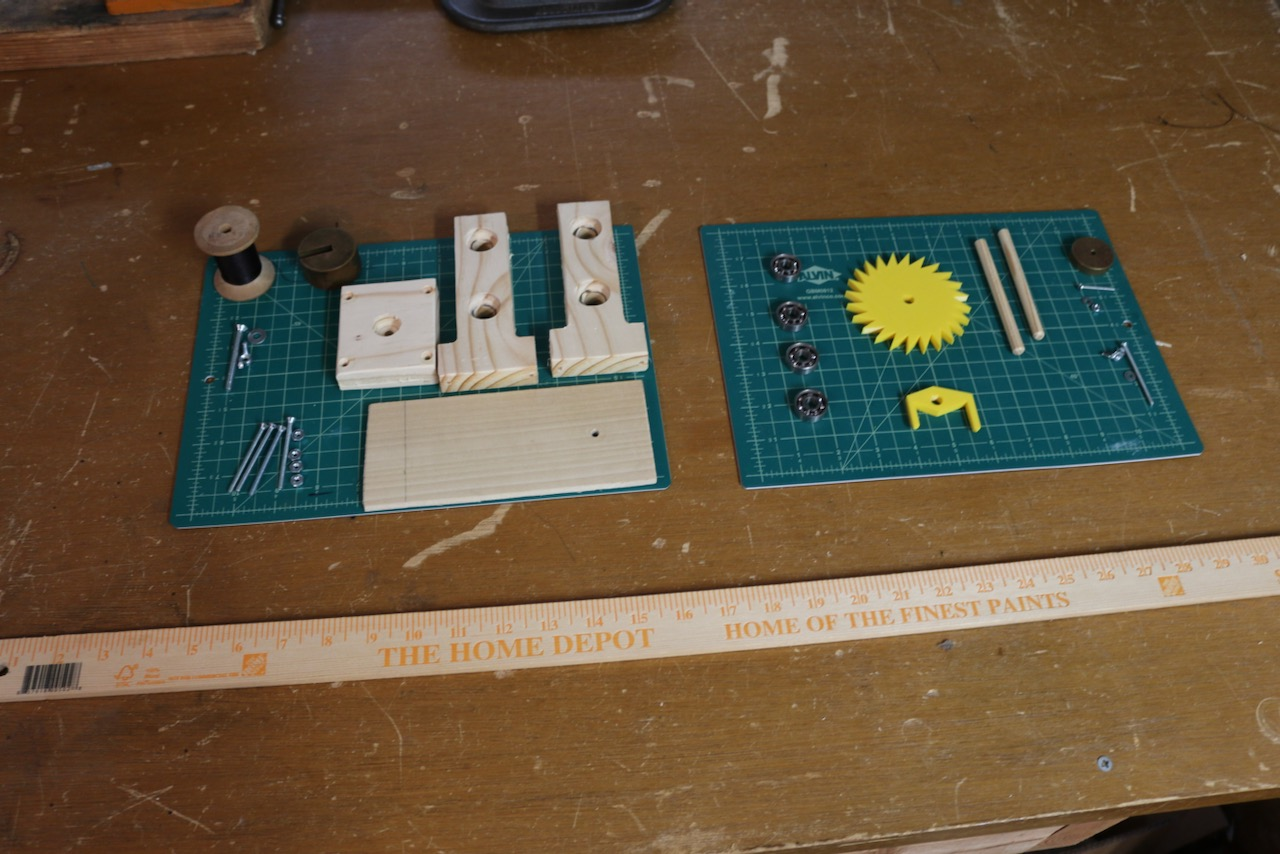
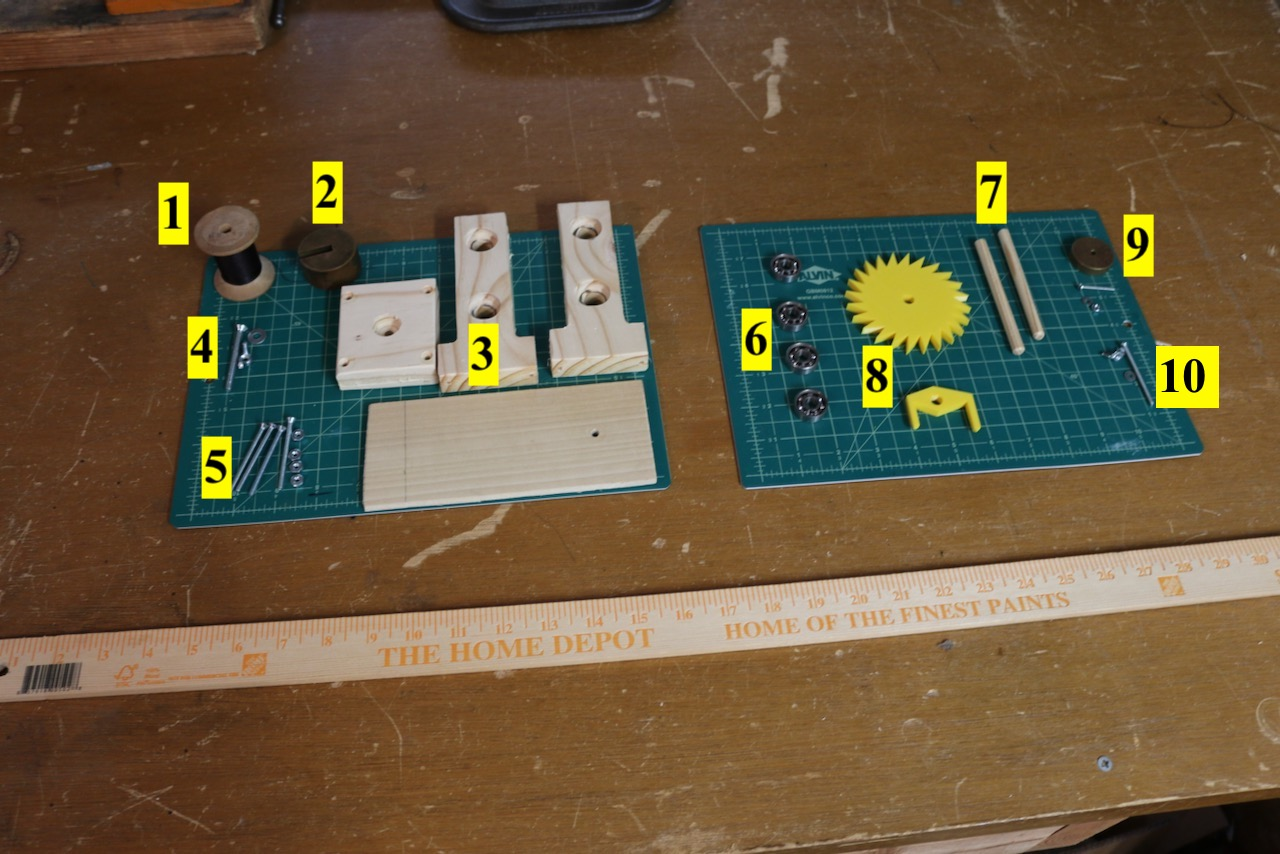
edits

diff --git a/readme.md b/readme.md
@@ -4,9 +4,33 @@ The following are step by step directions to cutting and building a working, gra
 
 ![Clock Escapement](https://github.com/tbensky/ProjectClock/blob/main/Pics/escape.gif)
 
+## Parts
+
 The escapement can be constructed using the parts shown here.
 
 ![Parts](https://github.com/tbensky/ProjectClock/blob/main/Pics/allparts.jpg)
+
+1. Some string used for the drive weight
+
+2. Some weight to drive the escapement. This escapement can run on about 200 g (0.5 lbs) of weight. This is a piece of brass, but anything can be used, as long as it's the weight given.
+
+3.  Wooden parts (see Frame section below)
+
+4. #10 screw with washer and wing nut
+
+5. 4, 2" long #6 screws with washers and nuts
+
+6. 4 fidget spinner bearings.  Outer diameter is 22 mm, inner diameter (of hole) is 8 mm, and thickness is 7 mm. These are very common bearings and sizes.
+
+7. Two 7/16" dia. wooden dowels cut to 4" long
+
+8.  3D printed escape wheel and anchor (see below)
+
+9. 50 g (0.1 lb) weight to be attached to the swinging end of the pendulum. This helps it keep swinging. Can be anything as long as it has a bit of mass.
+
+10. 1, 2" long #4 screw with washer and wing nut (this is for clamping the pendulum onto the escape wheel axis; see below).
+
+
 
 
 ## Frame
@@ -19,7 +43,7 @@ Parts 1 and 2 are the sides of the escapement frame. Part 3 is the base of the f
 circles with the blue arrows are to be cut through.  The smaller (outer) circles on Parts 3 and 4 are countersinks for #6 screw heads and are cut 0.1" deep. The inner circles on Parts 3 and 4 are to be cut through.
 
 We get good results using two tools.  All pockets cuts on Parts 1 and 2, and the countersinks and through-holes on Paers 3 and 4 are first cut with a 1/8" end mill. Some precision is needed on the pocket cuts to hold
-the bearings snugly with just friction. Everything else can be done with a 1/4" end mill. Use tabs on all parts. 
+the bearings snugly with just friction (and this smaller cutting tool seems to deliver on this). Everything else can be done with a 1/4" end mill. Use tabs on all parts. 
 
 Our CNC simulation looks like this
 
